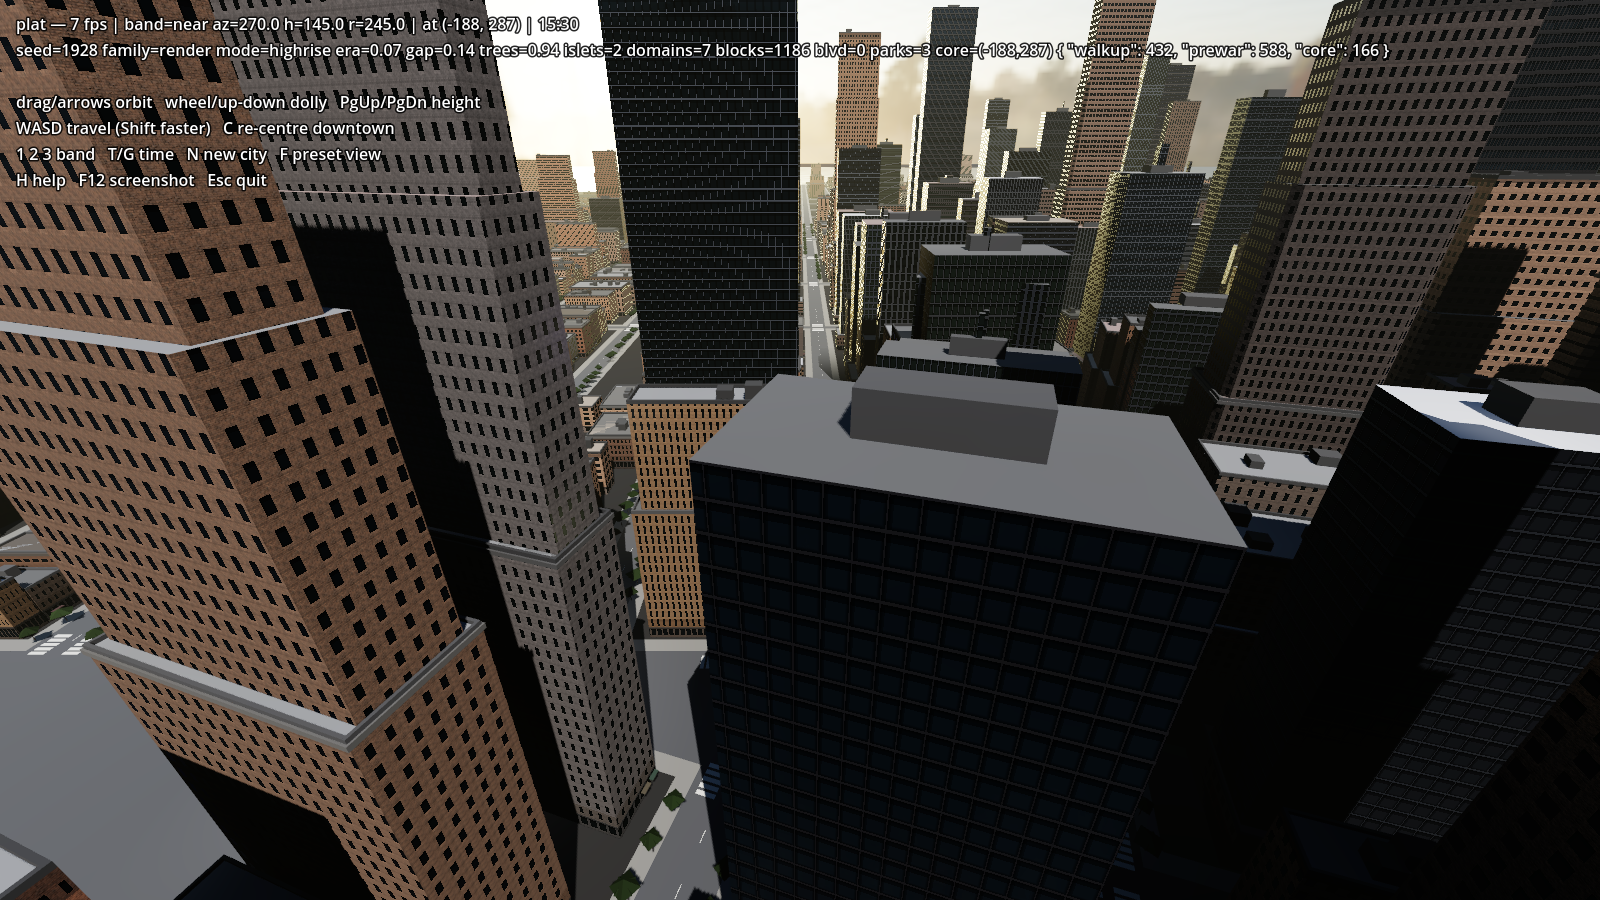
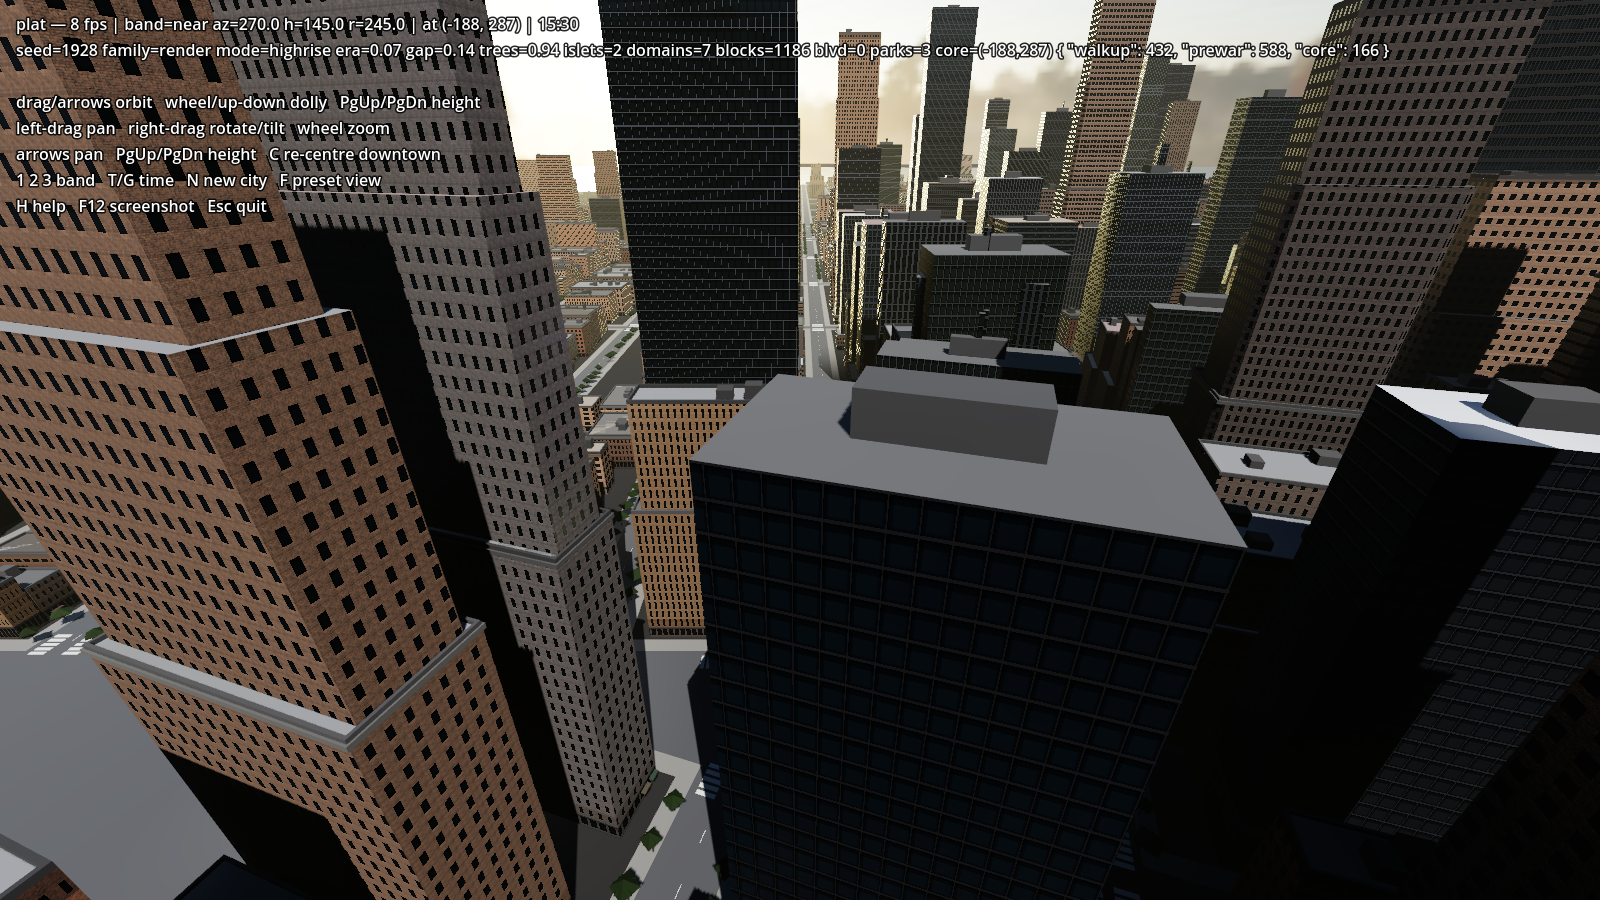
Movement: replace WASD with the Broadway-and-Wall map scheme
The owner disliked WASD and asked for the predecessor's movement. Read
the actual source (cre-game/broadway-and-wall/src/map/MapView.tsx): it
was a MapLibre map, so its scheme was left-drag GRABS THE GROUND and
pans (metres-per-pixel derived from radius and vertical FOV, so the
ground tracks the cursor), right-drag rotates and tilts, wheel zooms,
arrows pan, and every move is EASED (easeTo) rather than snapped.

Implemented exactly that: inputs write goal state, _process approaches
it exponentially (~92% in 300 ms — the old map's default ease pace), so
drags, zooms, presets and re-centres all glide. Pan target still clamps
to the coastline + 400 m; the rig still clamps height/radius into the
band. Selftest re-verified, zero script errors.

Changed region(s): [[0.0, 0.1244, 0.2812, 0.2489]]

diff --git a/README.md b/README.md
@@ -36,11 +36,12 @@ want headless renders on a machine without a GPU.
 
 | input | does |
 |---|---|
-| `W` `A` `S` `D` | travel across the city (hold Shift to move faster) |
-| `C` | re-centre on downtown |
-| drag / ← → | orbit |
-| wheel / ↑ ↓ | dolly in-out |
+| left-drag | grab the ground and pan — the city slides with the cursor |
+| right-drag | rotate (x) and tilt (y) |
+| wheel | zoom (clamped to the band) |
+| arrows | pan (map-style keyboard controls) |
 | PgUp / PgDn | height |
+| `C` | re-centre on downtown |
 | `1` `2` `3` | near / mid / far camera band |
 | `T` / `G` | time of day (rebuilds; sun and lit windows follow) |
 | `N` | **new city** — fresh random seed, whole island regenerates |
